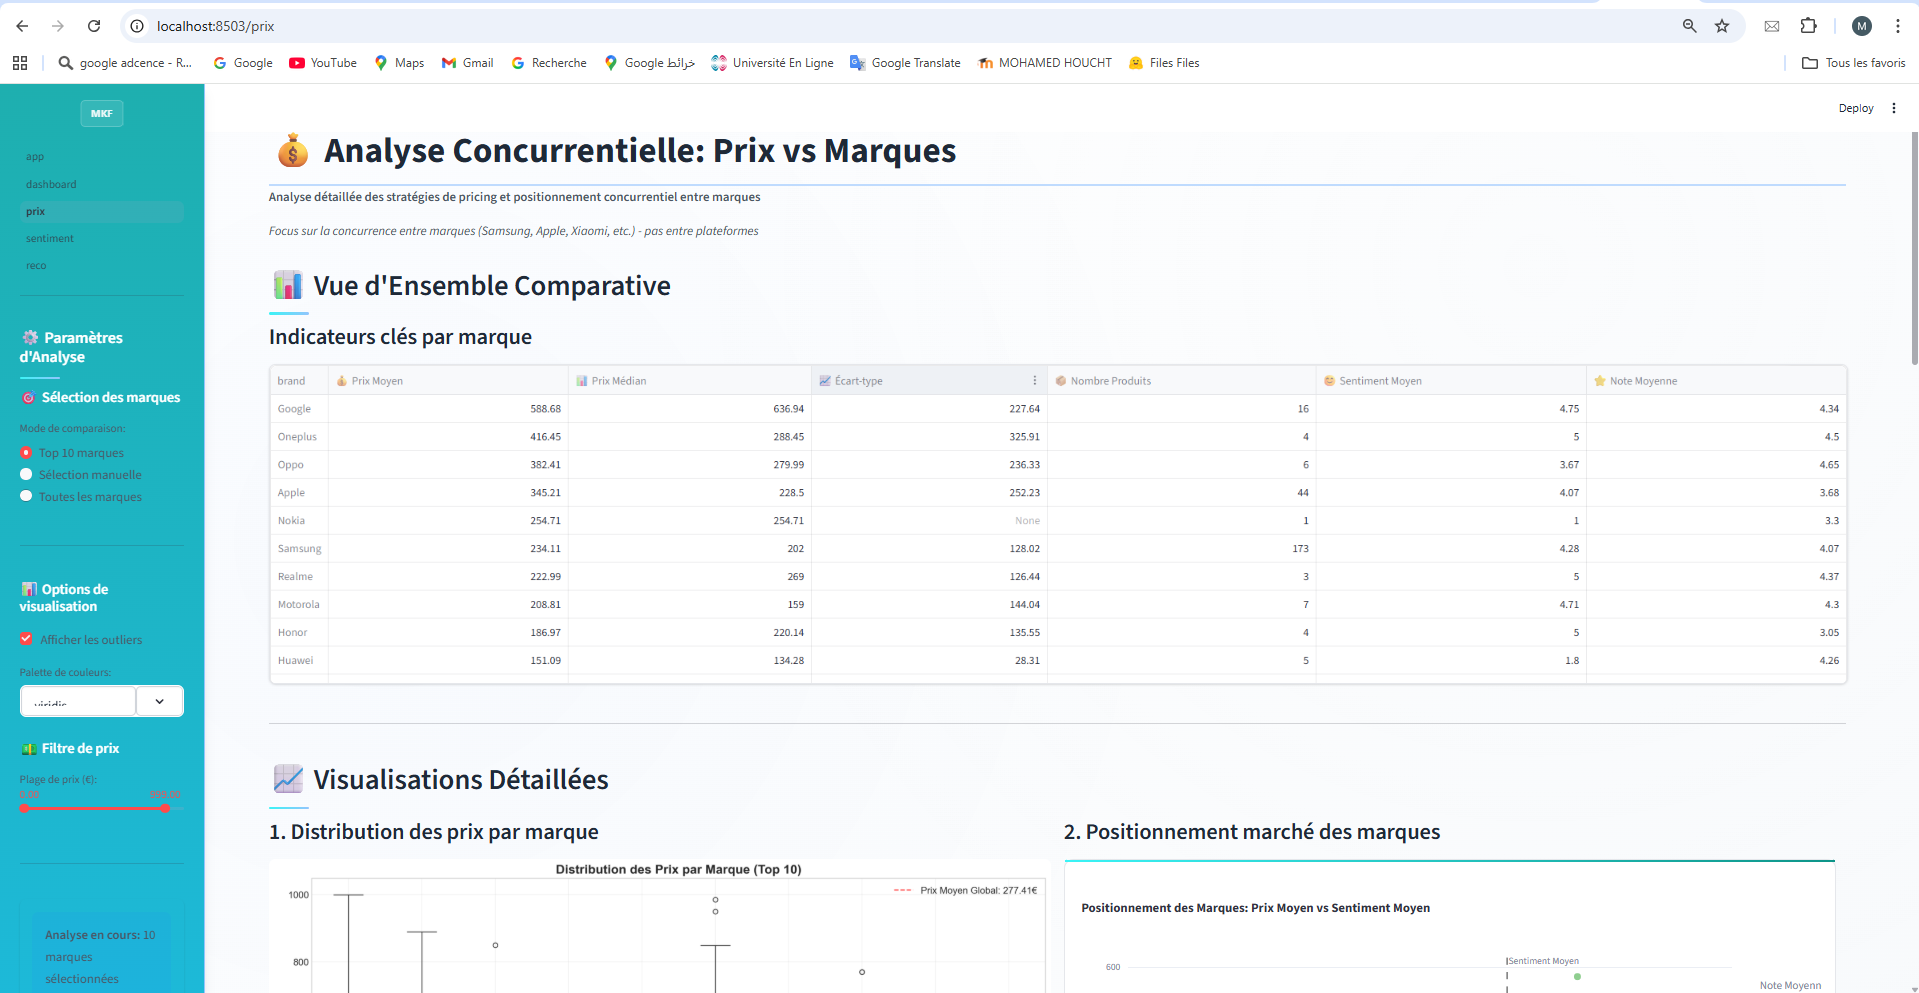
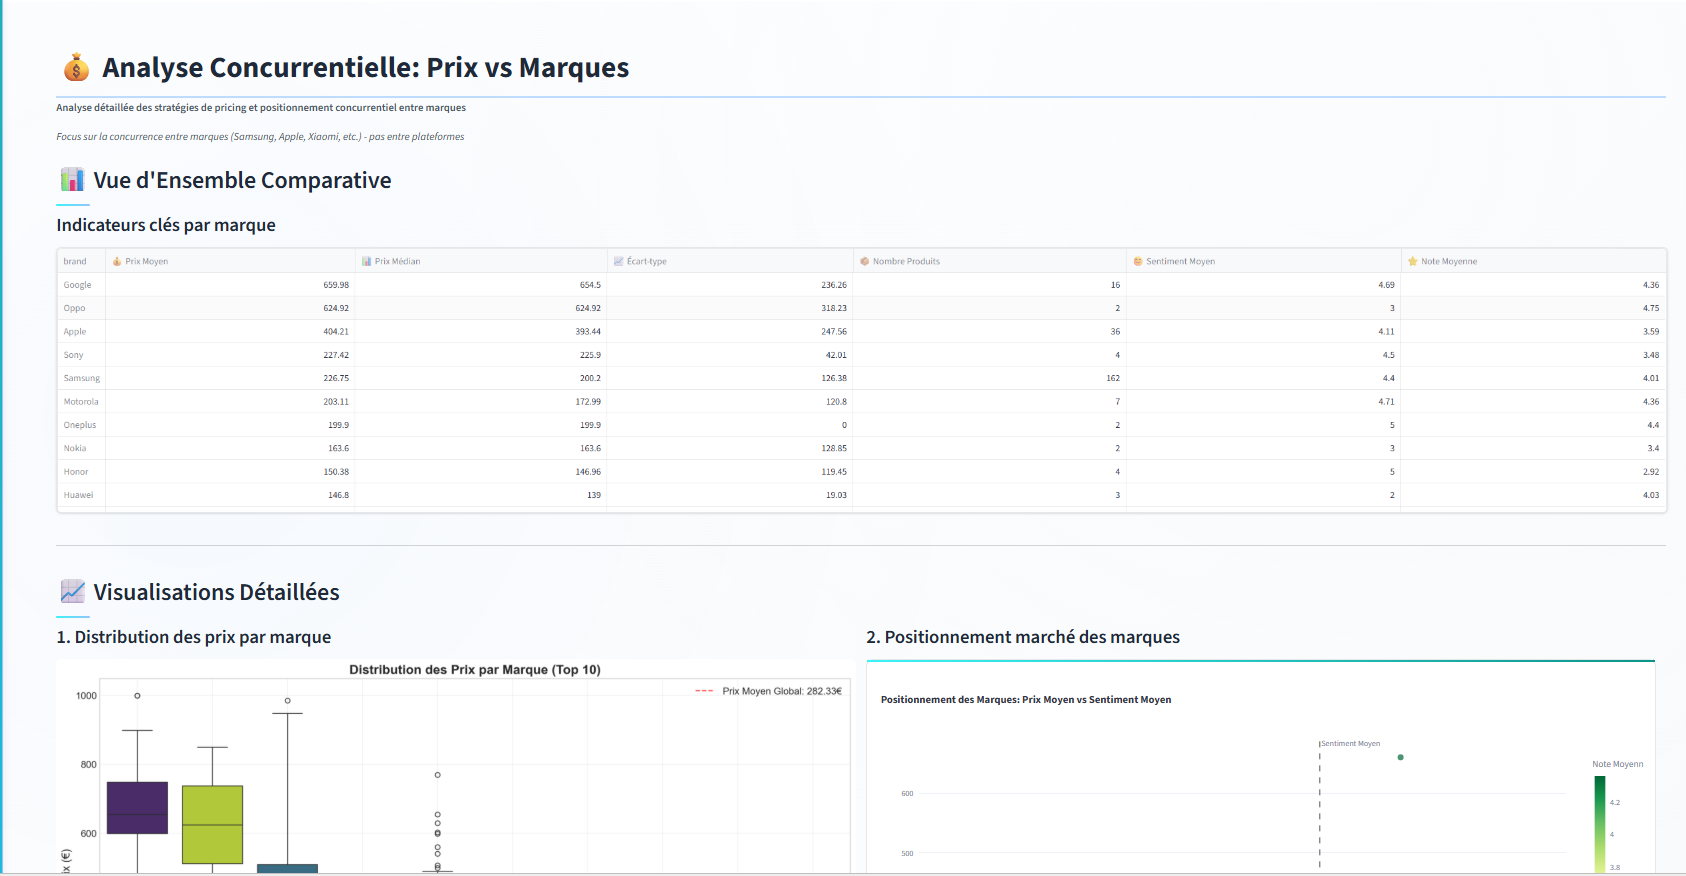
filtre accessoire

diff --git a/src/cleaning/cleaner.py b/src/cleaning/cleaner.py
@@ -56,35 +56,36 @@ class DataCleaner:
         return 'Unknown'
 
     def extract_category(self, text):
-        """Classification ULTRA PRÉCISE - VERSION CORRIGÉE"""
+        """Classification ULTRA PRÉCISE - VERSION FINALE"""
         if pd.isna(text):
             return 'unknown'
 
         text_lower = str(text).lower()
 
-        # ===== LISTE NOIRE ÉTENDUE (Mise à jour critique) =====
+        # ===== LISTE NOIRE ULTRA RENFORCÉE =====
         accessory_keywords = [
             # Protection & Coques
             'coque', 'housse', 'étui', 'case', 'cover', 'shell', 'bumper',
-            'protection', 'silicone', 'rigid', 'transparent',
+            'protection', 'silicone', 'rigid', 'transparent', 'pochette',
             
             # Écran & Film
             'film', 'verre trempé', 'protecteur', 'screen protector', 
             'tempered glass', 'hydrogel', 'pellicule',
             
-            # Chargement & Câbles
+            # Chargement & Batteries (Capture "Apple Batterie MagSafe")
             'chargeur', 'câble', 'cable', 'adaptateur', 'adapter', 
-            'power bank', 'batterie externe', 'wireless charger',
-            'charging', 'fast charge', 'plug',
+            'power bank', 'batterie externe', 'batterie', 'wireless charger',
+            'charging', 'fast charge', 'plug', 'magsafe', 'powerbank',
             
-            # Audio (AJOUT CRITIQUE : 'buds', 'pods')
+            # Audio (Capture "DJI Mic")
             'écouteur', 'casque', 'headphone', 'earphone', 'earbud',
             'airpod', 'galaxy buds', 'buds', 'pods', 'speakers', 'enceinte',
+            'microphone', 'mic', 'micro', 'cravate', 'sans fil',
             
-            # Supports & Accessoires Photo
+            # Supports & Stabilisation (Capture "Stabilisateur", "Cardan")
             'trépied', 'tripod', 'gorillapod', 'selfie stick', 'perche',
             'support', 'holder', 'stand', 'mount', 'grip',
-            'lentille', 'lens', 'objectif',
+            'stabilisateur', 'cardan', 'gimbal', 'steadicam',
             
             # Montres & Bracelets
             'smart watch', 'smartwatch', 'montre connectée', 'watch',
@@ -95,7 +96,7 @@ class DataCleaner:
             
             # Divers
             'stylet', 's pen', 'apple pencil', 'moniteur', 'kit', 'pack',
-            'sim card', 'outil', 'remplacement', 'pièce'
+            'sim card', 'outil', 'remplacement', 'pièce', 'stick', 'dock'
         ]
         
         # ===== VÉRIFICATION STRICTE =====
